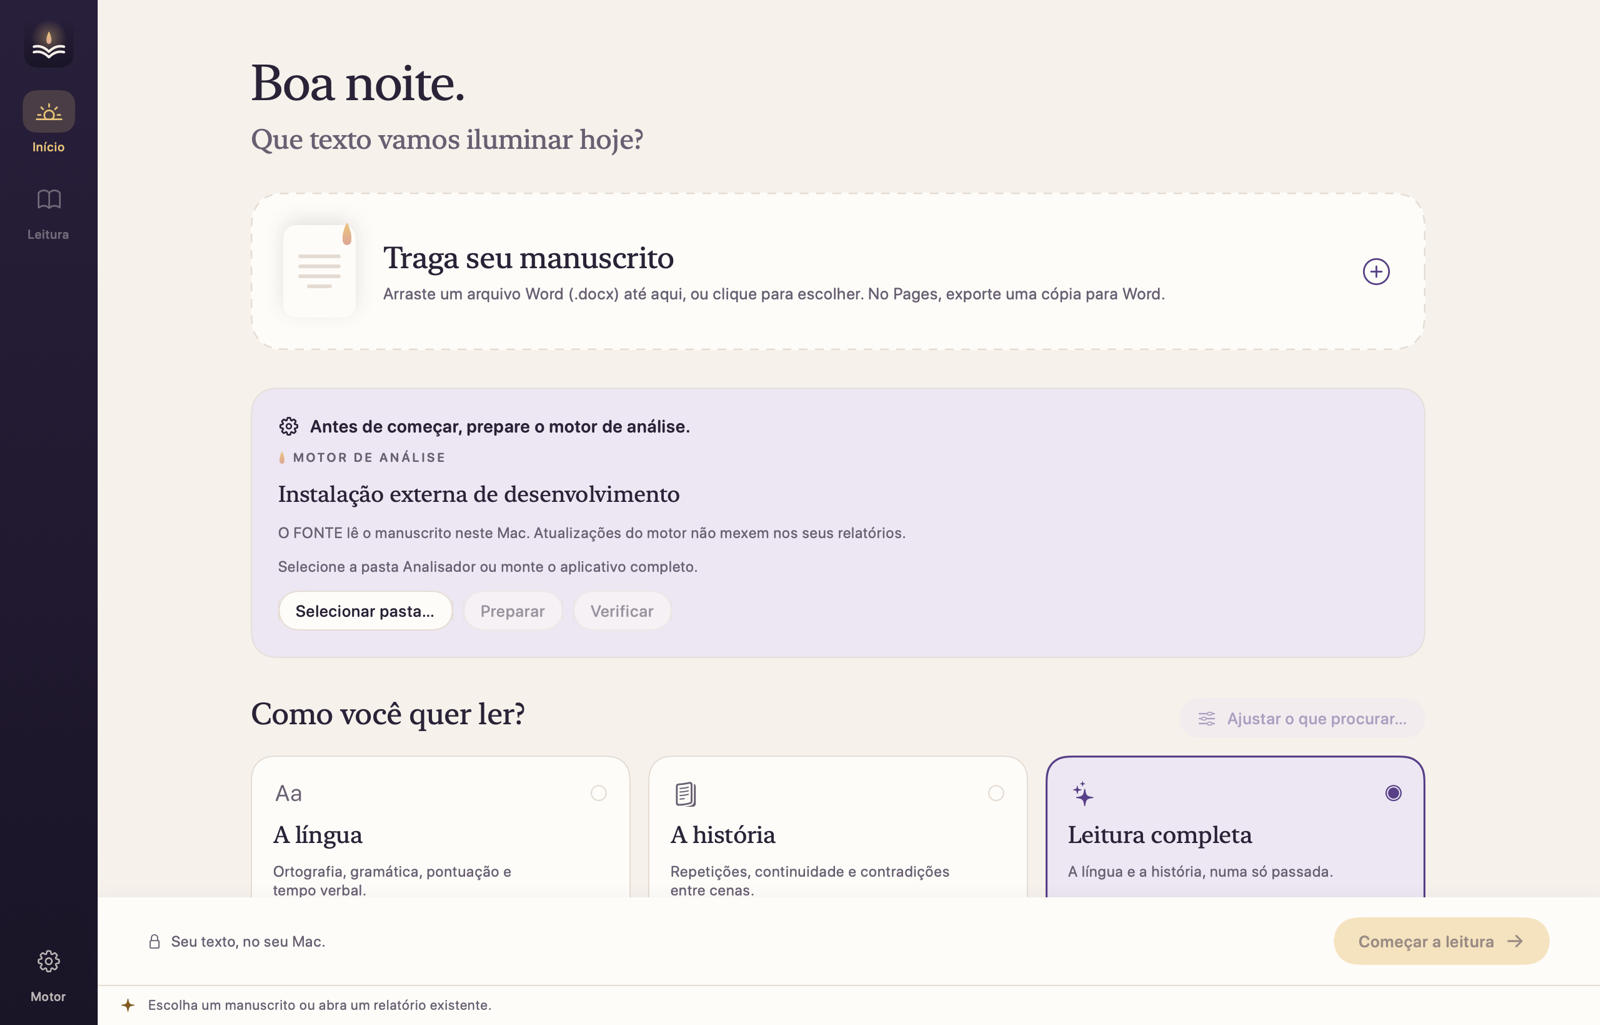
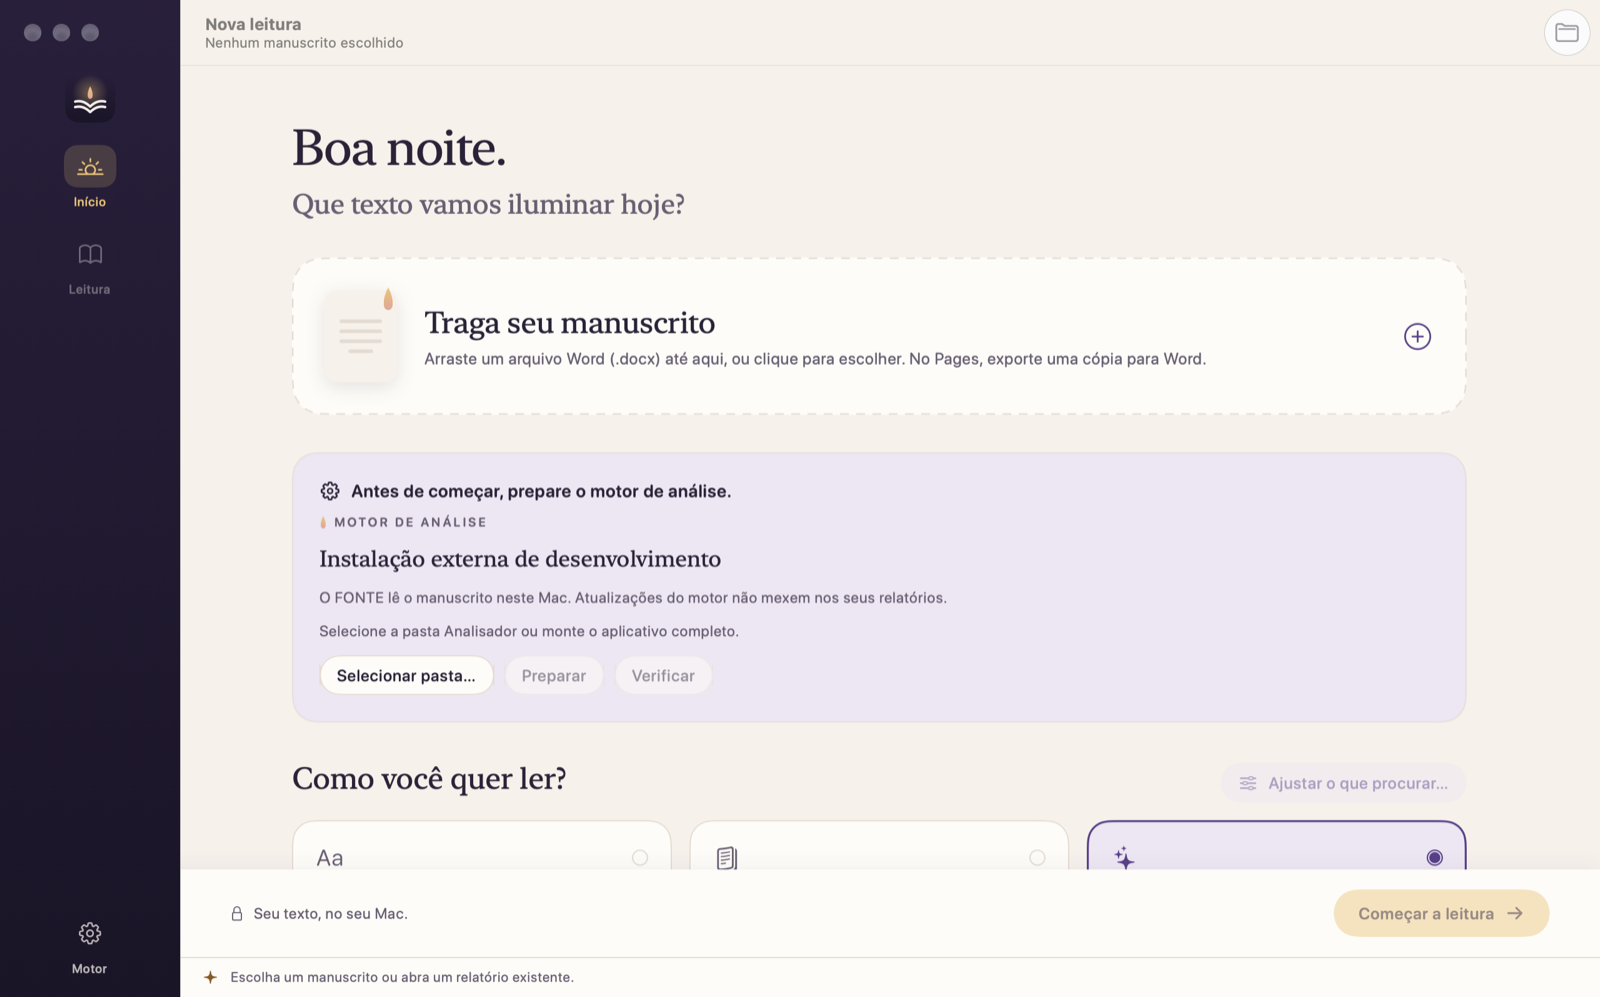
Topo no padrão do Mac: barra lateral até os botões da janela e barra única
O trilho vira a barra lateral nativa (NavigationSplitView) e sobe até os
botões da janela; título, subtítulo com o andamento e ações ficam numa só
barra de ferramentas, no lugar do cabeçalho interno da Mesa de leitura.
As prévias passam a ser renderizadas em janela real, com a barra.

diff --git a/LumeMac/Lume/ContentView.swift b/LumeMac/Lume/ContentView.swift
@@ -11,37 +11,31 @@ struct ContentView: View {
     @State private var showKeySheet = false
 
     var body: some View {
-        HStack(spacing: 0) {
+        // Padrão do Mac: a barra lateral sobe até os botões da janela e o título,
+        // o subtítulo e as ações ficam numa única barra de ferramentas nativa.
+        NavigationSplitView {
             NightRail(showEngine: $showEngine)
+                .navigationSplitViewColumnWidth(min: 88, ideal: 88, max: 88)
+                .modifier(HideSidebarToggle())
+        } detail: {
             VStack(spacing: 0) {
                 if store.screen == .preparation {
                     HomeView(showSearchSettings: $showSearchSettings, showKeySheet: $showKeySheet)
                 } else {
-                    ReadingDesk(showCoverage: $showCoverage)
+                    ReadingDesk()
                 }
                 StatusLine()
             }
+            .background(LumeTheme.canvas)
+            .navigationTitle(windowTitle)
+            .navigationSubtitle(windowSubtitle)
+            .toolbar { toolbarContent }
+            .toolbarBackground(LumeTheme.paper, for: .windowToolbar)
+            .toolbarBackground(.visible, for: .windowToolbar)
         }
+        .navigationSplitViewStyle(.prominentDetail)
         .tint(LumeTheme.accent)
         .foregroundStyle(LumeTheme.ink)
-        .background(LumeTheme.canvas)
-        .toolbar {
-            ToolbarItemGroup {
-                Button { store.chooseReport() } label: { Label("Abrir relatório", systemImage: "book.closed") }
-                    .help("Abrir um relatório JSON salvo").disabled(store.isBusy)
-                if store.report != nil {
-                    Button { store.exportDecisions() } label: { Label("Exportar decisões", systemImage: "square.and.arrow.up") }
-                        .help("Exportar suas avaliações").disabled(store.isBusy)
-                    Menu {
-                        Button("Importar decisões…") { store.importDecisions() }
-                        Divider()
-                        Button("Mostrar relatório no Finder") { store.revealReport() }
-                        Button("Abrir relatório HTML") { store.openHTML() }
-                    } label: { Label("Mais opções", systemImage: "ellipsis.circle") }
-                        .disabled(store.isBusy)
-                }
-            }
-        }
         .sheet(isPresented: $showSearchSettings) { SearchSettingsView().environmentObject(store) }
         .sheet(isPresented: $showCoverage) { CoverageSheet().environmentObject(store) }
         .sheet(isPresented: $showKeySheet) { KeySheet().environmentObject(store) }
@@ -56,6 +50,71 @@ struct ContentView: View {
                                             set: { if !$0 { store.errorText = nil } })) {
             Button("OK", role: .cancel) { store.errorText = nil }
         } message: { Text(store.errorText ?? "") }
+    }
+
+    private var documentName: String {
+        let name = store.isAnalyzing ? (store.documentURL?.lastPathComponent ?? store.report?.document)
+                                     : (store.report?.document ?? store.documentURL?.lastPathComponent)
+        return (name ?? "Lume").replacingOccurrences(of: ".docx", with: "", options: [.caseInsensitive, .anchored, .backwards])
+    }
+
+    private var windowTitle: String {
+        store.screen == .preparation ? "Nova leitura" : documentName
+    }
+
+    private var windowSubtitle: String {
+        if store.screen == .preparation {
+            return store.documentURL.map { $0.deletingPathExtension().lastPathComponent } ?? "Nenhum manuscrito escolhido"
+        }
+        if store.isAnalyzing { return "Lendo agora…" }
+        if store.analysisFailed { return "Leitura interrompida" }
+        guard let report = store.report else { return "Mesa de leitura" }
+        let total = report.findings.count
+        return "Mesa de leitura · \(total - store.pendingCount) de \(total) avaliados"
+    }
+
+    @ToolbarContentBuilder
+    private var toolbarContent: some ToolbarContent {
+        if store.screen == .review, let report = store.report, !store.isAnalyzing, !store.analysisFailed {
+            ToolbarItemGroup(placement: .primaryAction) {
+                if let chapters = report.metadata.chapters {
+                    Menu {
+                        if chapters.isEmpty { Text("Nenhum título identificado") }
+                        ForEach(Array(chapters.enumerated()), id: \.offset) { _, chapter in
+                            Text("§ \(chapter.paragraph) · \(chapter.title)")
+                        }
+                    } label: { Label("Capítulos", systemImage: "list.bullet") }
+                        .help("Capítulos identificados (\(chapters.count))")
+                }
+                Button { showCoverage = true } label: { Label("Etapas e alcance", systemImage: "chart.bar.doc.horizontal") }
+                    .help("Etapas e alcance da leitura")
+            }
+        }
+        ToolbarItemGroup(placement: .primaryAction) {
+            Button { store.chooseReport() } label: { Label("Abrir relatório", systemImage: "folder") }
+                .help("Abrir um relatório JSON salvo").disabled(store.isBusy)
+            if store.report != nil {
+                Button { store.exportDecisions() } label: { Label("Exportar decisões", systemImage: "square.and.arrow.up") }
+                    .help("Exportar suas avaliações").disabled(store.isBusy)
+                Menu {
+                    Button("Importar decisões…") { store.importDecisions() }
+                    Divider()
+                    Button("Mostrar relatório no Finder") { store.revealReport() }
+                    Button("Abrir relatório HTML") { store.openHTML() }
+                } label: { Label("Mais opções", systemImage: "ellipsis.circle") }
+                    .help("Mais opções").disabled(store.isBusy)
+            }
+        }
+    }
+}
+
+private struct HideSidebarToggle: ViewModifier {
+    func body(content: Content) -> some View {
+        if #available(macOS 14, *) {
+            content.toolbar(removing: .sidebarToggle)
+        } else {
+            content
+        }
     }
 }
 
@@ -82,7 +141,7 @@ private struct NightRail: View {
 
     var body: some View {
         VStack(spacing: 18) {
-            LumeMark(size: 40, glowing: store.isAnalyzing).padding(.top, 14)
+            LumeMark(size: 40, glowing: store.isAnalyzing).padding(.top, 6)
                 .help("Lume")
             item("Início", symbol: "sun.horizon", active: store.screen == .preparation) { store.showPreparation() }
                 .disabled(store.isBusy)
@@ -98,8 +157,9 @@ private struct NightRail: View {
                         .background(LumeTheme.paper)
                 }
                 .padding(.bottom, 16)
-        }.frame(width: 78).frame(maxHeight: .infinity)
-            .background(LinearGradient(colors: [LumeTheme.night, LumeTheme.nightDeep], startPoint: .top, endPoint: .bottom))
+        }.frame(maxWidth: .infinity, maxHeight: .infinity)
+            .background(LinearGradient(colors: [LumeTheme.night, LumeTheme.nightDeep], startPoint: .top, endPoint: .bottom)
+                .ignoresSafeArea())
     }
 }
 
@@ -381,17 +441,9 @@ private struct HomeView: View {
 @MainActor
 private struct ReadingDesk: View {
     @EnvironmentObject private var store: ReviewStore
-    @Binding var showCoverage: Bool
-
-    private var documentName: String {
-        let name = store.isAnalyzing ? (store.documentURL?.lastPathComponent ?? store.report?.document)
-                                     : (store.report?.document ?? store.documentURL?.lastPathComponent)
-        return name ?? "Leitura"
-    }
 
     var body: some View {
         VStack(spacing: 0) {
-            header
             if store.isAnalyzing {
                 ReadingInProgress()
             } else if store.analysisFailed {
@@ -409,38 +461,6 @@ private struct ReadingDesk: View {
                 }
             }
         }.frame(maxWidth: .infinity, maxHeight: .infinity)
-    }
-
-    private var header: some View {
-        HStack(spacing: 18) {
-            VStack(alignment: .leading, spacing: 4) {
-                Kicker(title: store.isAnalyzing ? "Lendo agora" : "Mesa de leitura")
-                Text(documentName).font(LumeFont.display(22)).lineLimit(1).help(documentName)
-            }
-            Spacer(minLength: 12)
-            if let report = store.report, !store.isAnalyzing, !store.analysisFailed {
-                let total = report.findings.count
-                let done = total - store.pendingCount
-                HStack(spacing: 10) {
-                    LightRing(value: total == 0 ? 1 : Double(done) / Double(total), size: 30)
-                    VStack(alignment: .leading, spacing: 1) {
-                        Text("\(done) de \(total)").font(LumeFont.ui(13, weight: .semibold)).monospacedDigit()
-                        Text("avaliados").font(LumeFont.ui(10)).foregroundStyle(LumeTheme.secondary)
-                    }
-                }.accessibilityElement(children: .combine)
-                if let chapters = report.metadata.chapters {
-                    Menu {
-                        if chapters.isEmpty { Text("Nenhum título identificado") }
-                        ForEach(Array(chapters.enumerated()), id: \.offset) { _, chapter in
-                            Text("§ \(chapter.paragraph) · \(chapter.title)")
-                        }
-                    } label: { Label("Capítulos · \(chapters.count)", systemImage: "list.bullet") }
-                        .menuStyle(.borderlessButton).fixedSize()
-                }
-                Button("Etapas e alcance") { showCoverage = true }.buttonStyle(LumeButtonStyle(kind: .soft))
-            }
-        }.padding(.horizontal, 28).padding(.vertical, 16).background(LumeTheme.paper)
-            .overlay(alignment: .bottom) { Rectangle().fill(LumeTheme.line).frame(height: 1) }
     }
 
     private var recovery: some View {

diff --git a/LumeMac/Lume/LumeApp.swift b/LumeMac/Lume/LumeApp.swift
@@ -47,18 +47,24 @@ struct LumeApp: App {
 @MainActor
 enum Snapshot {
     static func render(_ store: ReviewStore, name: String, dark: Bool, into folder: URL) async {
-        let view = NSHostingView(rootView: ContentView().environmentObject(store))
-        view.appearance = NSAppearance(named: dark ? .darkAqua : .aqua)
-        view.frame = NSRect(x: 0, y: 0, width: 1280, height: 820)
-        let window = NSWindow(contentRect: view.frame, styleMask: [.borderless], backing: .buffered, defer: false)
-        window.contentView = view
-        window.appearance = view.appearance
-        try? await Task.sleep(nanoseconds: 700_000_000)
-        view.layoutSubtreeIfNeeded()
-        guard let rep = view.bitmapImageRepForCachingDisplay(in: view.bounds) else { return }
-        view.cacheDisplay(in: view.bounds, to: rep)
+        // Janela real, com barra de ferramentas, para conferir também o topo.
+        let controller = NSHostingController(rootView: ContentView().environmentObject(store))
+        if #available(macOS 14, *) { controller.sceneBridgingOptions = [.toolbars, .title] }
+        let window = NSWindow(contentRect: NSRect(x: 40, y: 40, width: 1280, height: 820),
+                              styleMask: [.titled, .closable, .miniaturizable, .resizable, .fullSizeContentView],
+                              backing: .buffered, defer: false)
+        window.contentViewController = controller
+        window.toolbarStyle = .unified
+        window.appearance = NSAppearance(named: dark ? .darkAqua : .aqua)
+        window.setContentSize(NSSize(width: 1280, height: 820))
+        window.orderFrontRegardless()
+        try? await Task.sleep(nanoseconds: 1_200_000_000)
+        guard let frame = window.contentView?.superview,
+              let rep = frame.bitmapImageRepForCachingDisplay(in: frame.bounds) else { return }
+        frame.cacheDisplay(in: frame.bounds, to: rep)
         try? rep.representation(using: .png, properties: [:])?
             .write(to: folder.appendingPathComponent("\(name)-\(dark ? "escuro" : "claro").png"))
+        window.orderOut(nil)
     }
 
     static func run(into folder: URL) async {

diff --git a/LumeMac/Identidade/GUIA.md b/LumeMac/Identidade/GUIA.md
@@ -85,8 +85,11 @@ do mesmo modo. Vela sobre Noite (e o inverso) chega a 9,5:1. Cada decisão tem c
    - à esquerda, os pontos de atenção em cartões, com busca e filtros num popover;
    - à direita, a página: o trecho com luz rosada ao fundo, a nota de margem “Por que
      acendemos esta luz” com a sugestão (trecho → proposta) e as seis decisões em cartões.
-4. **Trilho noturno**: Início, Leitura, Registro e Motor (um popover com a instalação
-   e as atualizações do FONTE).
+4. **Trilho noturno**: barra lateral nativa que sobe até os botões da janela, com
+   Início, Leitura, Registro e Motor (um popover com a instalação e as atualizações do FONTE).
+5. **Barra de ferramentas**: uma só, no padrão do Mac. Título e subtítulo mostram o
+   manuscrito e o andamento (“Mesa de leitura · 12 de 286 avaliados”). À direita ficam
+   os ícones de Capítulos, Etapas e alcance, Abrir relatório, Exportar e Mais opções.
 
 ## Prévias
 
